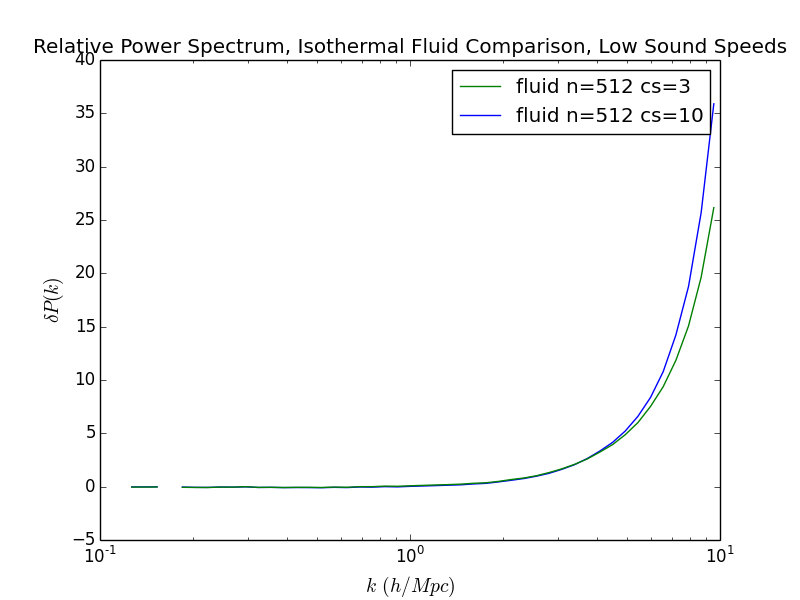
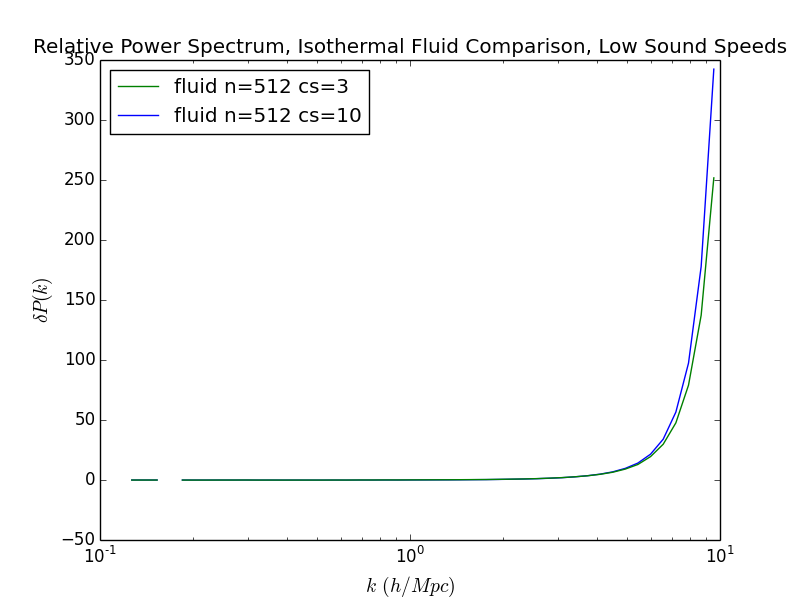
Normalizing isothermal fluid ps to adiabatic fluid ps instead of particle ps. Added projection plots.

diff --git a/plots/isothermal/isothermal_fluid_all.py b/plots/isothermal/isothermal_fluid_all.py
@@ -21,7 +21,6 @@ for simtype in simtypes:
         isothermal = isothermalpattern.findall(filename)[0]
         n = npattern.findall(filename)[0]
         kvalues, ps = np.loadtxt(result_dir+filename, unpack=True)
-        ps = (ps - ps_base)/ps_base
         style = '--' if 'particle' in filename else '-'
         plt.semilogx(kvalues, ps, style, label=simtype+' n='+n+' cs='+isothermal)
 
@@ -32,9 +31,9 @@ handles2, labels2 = zip(*hl)
 
 plt.xlim([1e-1,1e1])
 plt.xlabel('$k \, (h/Mpc)$', fontsize=14)
-plt.ylabel('$\delta P(k)$', fontsize=14)
-plt.title('Relative Power Spectrum, Isothermal Fluid Comparison at Z=0')
+plt.ylabel('$P(k)$', fontsize=14)
+plt.title('Power Spectrum, Isothermal Fluid Comparison at Z=0')
 plt.legend(handles2, labels2, numpoints=1, loc='best')
-plt.savefig('isothermal_fluid.png')
+plt.savefig('isothermal_fluid_all.png')
 
 plt.show()

diff --git a/plots/isothermal/isothermal_fluid_high.py b/plots/isothermal/isothermal_fluid_high.py
@@ -1,4 +1,3 @@
-from __future__ import print_function
 import os
 import re
 import numpy as np
@@ -14,7 +13,7 @@ simtypes = ['fluid']
 for simtype in simtypes:
     params = [simtype,'b100','n512','t0.005','h2','isothermal']
     filenames = [filename for filename in results if all(param in filename for param in params)]
-    base = 'particle_b100_n512_t0.005_h2_z50.out'
+    base = 'fluid_b100_n512_t0.005_h2_z50.out'
     
     kvalues_base, ps_base = np.loadtxt(result_dir+base, unpack=True)
 

diff --git a/plots/isothermal/isothermal_fluid_low.py b/plots/isothermal/isothermal_fluid_low.py
@@ -1,4 +1,3 @@
-from __future__ import print_function
 import os
 import re
 import numpy as np
@@ -14,7 +13,7 @@ simtypes = ['fluid']
 for simtype in simtypes:
     params = [simtype,'b100','n512','t0.005','h2','isothermal']
     filenames = [filename for filename in results if all(param in filename for param in params)]
-    base = 'particle_b100_n512_t0.005_h2_z50.out'
+    base = 'fluid_b100_n512_t0.005_h2_z50.out'
     
     kvalues_base, ps_base = np.loadtxt(result_dir+base, unpack=True)
 
